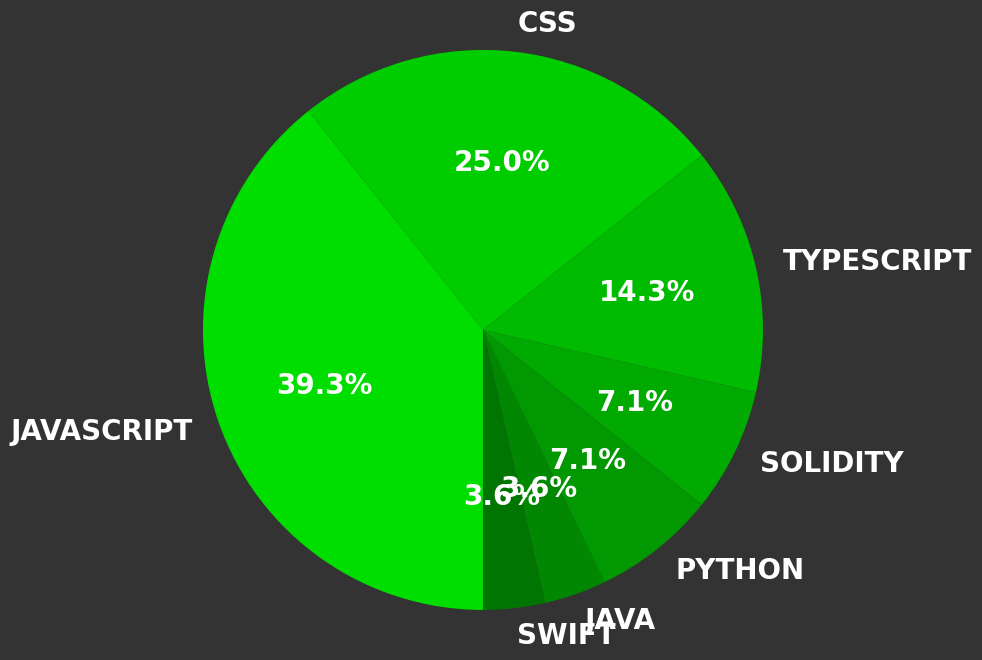
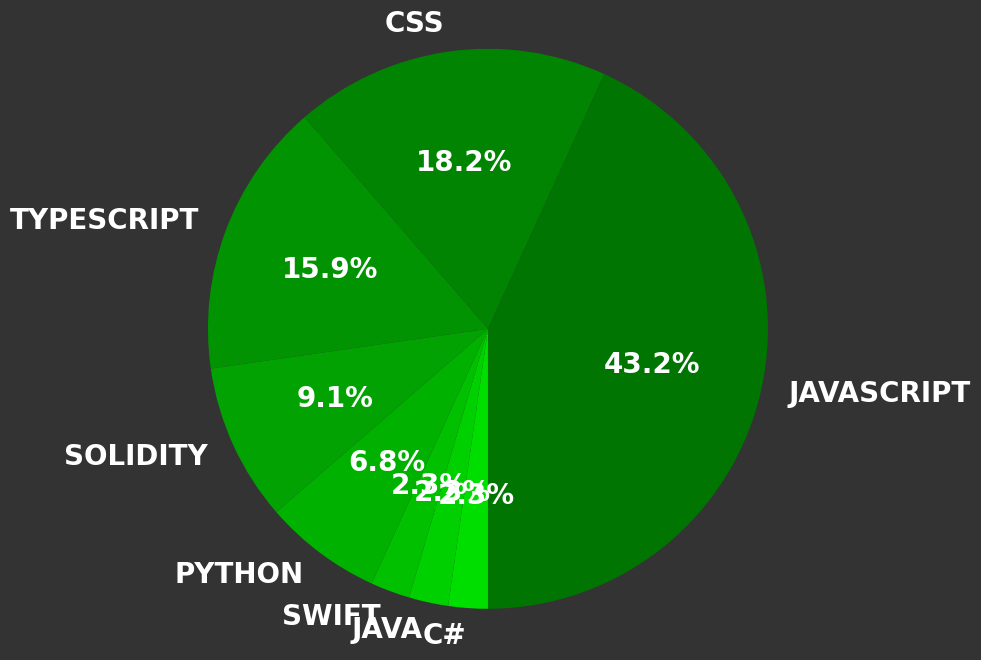
Updated Chart - Thu Sep 12 16:37:33 AWST 2024

diff --git a/README.md b/README.md
@@ -1,3 +1,18 @@
-<p align="center">
-  <img src="chart.png" alt="Lang Chart" width="65%">
-</p>
+# FiendsXYZ's GitHub Stats
+
+![Language Distribution](chart.png)
+
+## Quick Stats
+- Total Repositories: 48
+- Total Stars Earned: 2
+- Total Forks: 3
+- Total Watchers: 2
+- Languages Used: 8
+- Average Repository Size: 127835.54 KB
+- Most Starred Repository: 1 stars
+
+## Commit Activity
+- Last 24 hours: 51 commits
+- Last 7 days: 301 commits
+- Last 30 days: 503 commits
+- Last 365 days: 1619 commits
